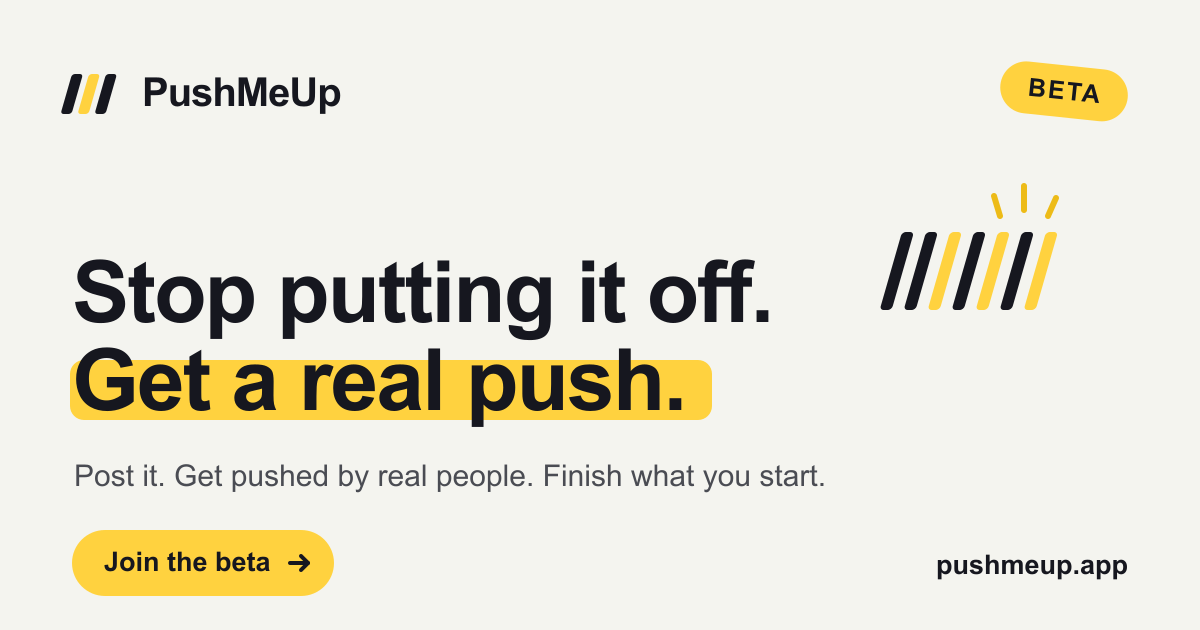
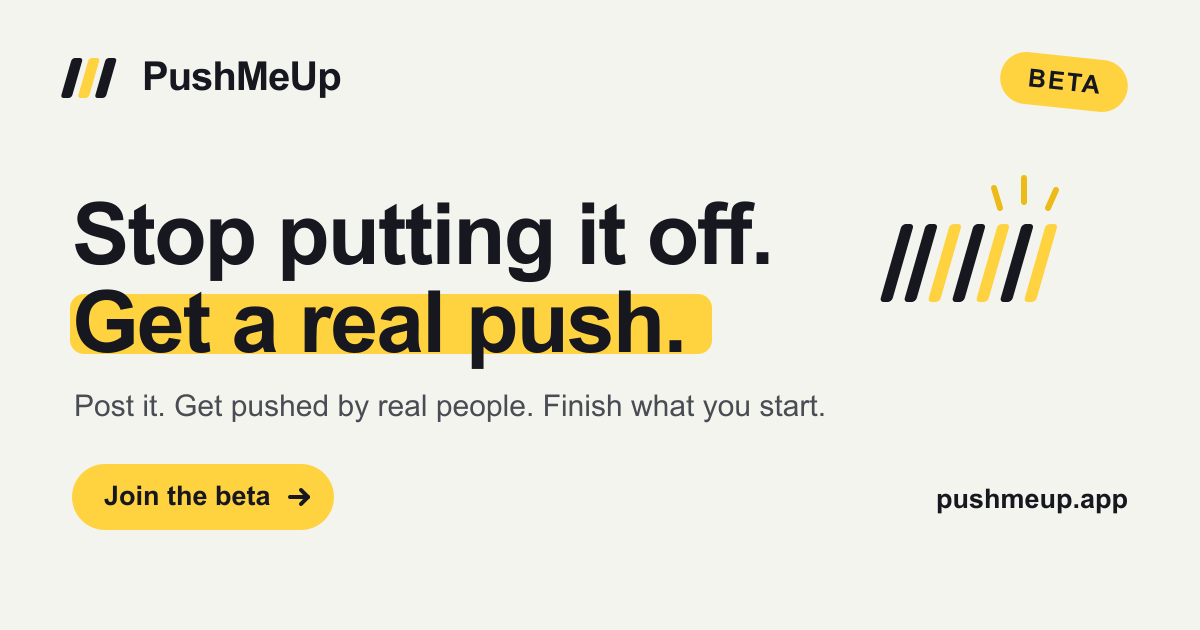
Tighten meta descriptions and re-center OG image
- Remove apostrophes from meta/og/twitter descriptions (some scrapers
  truncated at the apostrophe) and tune lengths: description 151, og/twitter 114.
- Recompose og-image so the headline is vertically centered with balanced
  top/bottom margins (less blank space under the header).

diff --git a/index.html b/index.html
@@ -4,7 +4,7 @@
   <meta charset="UTF-8" />
   <meta name="viewport" content="width=device-width, initial-scale=1.0" />
   <title>PushMeUp | Stop putting it off. Get a real push.</title>
-  <meta name="description" content="Post what you've been avoiding, get real pushes from people to start and finish it, then pass the push on. PushMeUp is a free social motivation app in beta for iPhone and Android." />
+  <meta name="description" content="Post the thing you keep avoiding and get real pushes from people to help you start and finish it, then pass it on. PushMeUp is free on iOS and Android." />
   <link rel="canonical" href="https://pushmeup.app/" />
   <meta name="robots" content="index, follow, max-image-preview:large, max-snippet:-1, max-video-preview:-1" />
   <meta name="theme-color" content="#F4F4EF" />
@@ -13,7 +13,7 @@
   <meta property="og:type" content="website" />
   <meta property="og:site_name" content="PushMeUp" />
   <meta property="og:title" content="PushMeUp | Stop putting it off. Get a real push." />
-  <meta property="og:description" content="Post what you've been avoiding, get real pushes from people to start and finish it, then pass the push on. Free social motivation app for iPhone and Android." />
+  <meta property="og:description" content="Post the thing you keep avoiding, get real pushes to start and finish it, then pass it on. Free, on iOS and Android." />
   <meta property="og:url" content="https://pushmeup.app/" />
   <meta property="og:image" content="https://pushmeup.app/og-image.png" />
   <meta property="og:image:width" content="1200" />
@@ -24,7 +24,7 @@
   <!-- Twitter / X -->
   <meta name="twitter:card" content="summary_large_image" />
   <meta name="twitter:title" content="PushMeUp | Stop putting it off. Get a real push." />
-  <meta name="twitter:description" content="Post what you've been avoiding, get real pushes from people to start and finish it, then pass the push on. Free app for iPhone and Android." />
+  <meta name="twitter:description" content="Post the thing you keep avoiding, get real pushes to start and finish it, then pass it on. Free, on iOS and Android." />
   <meta name="twitter:image" content="https://pushmeup.app/og-image.png" />
 
   <!-- Icons -->